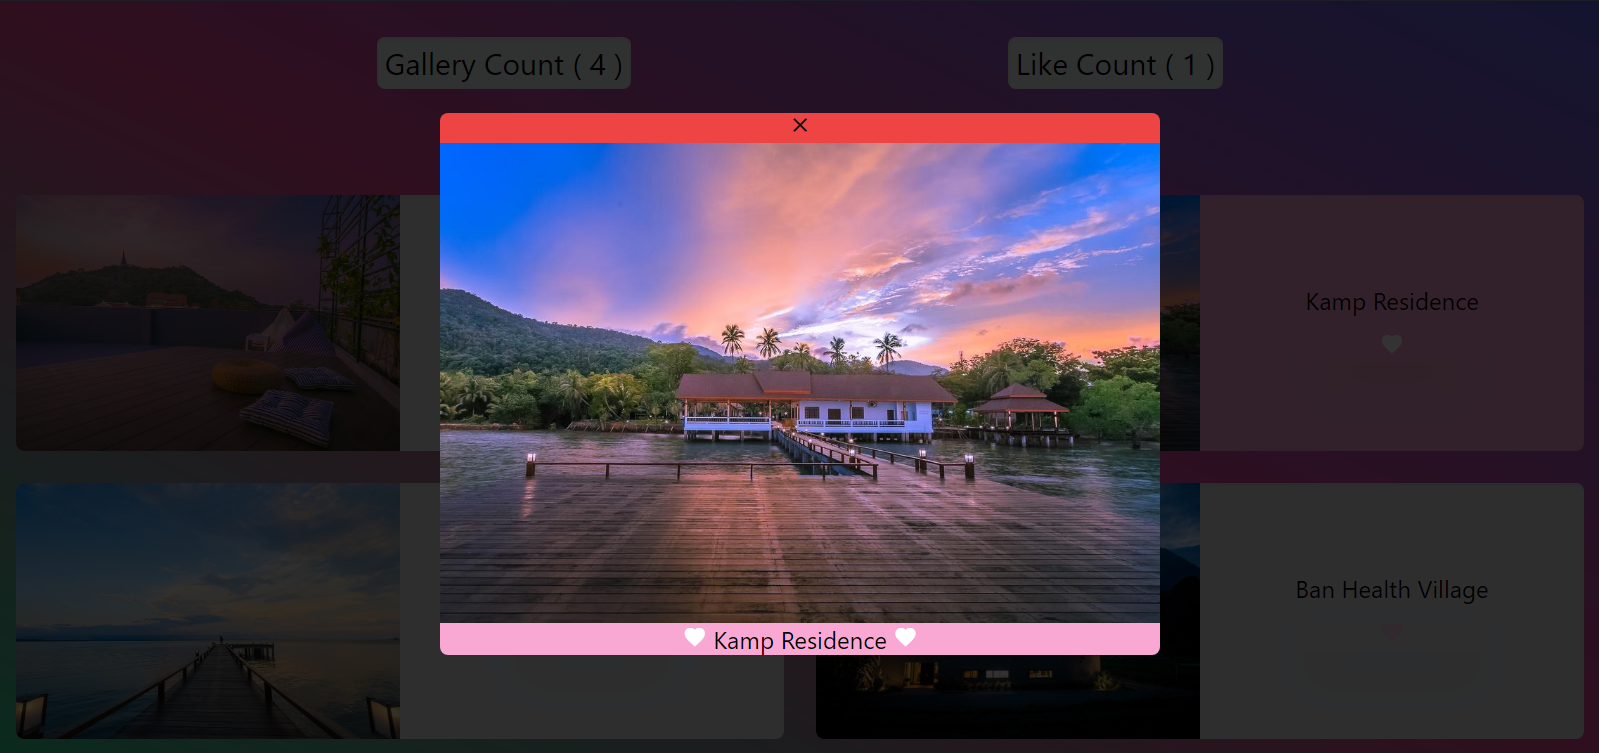
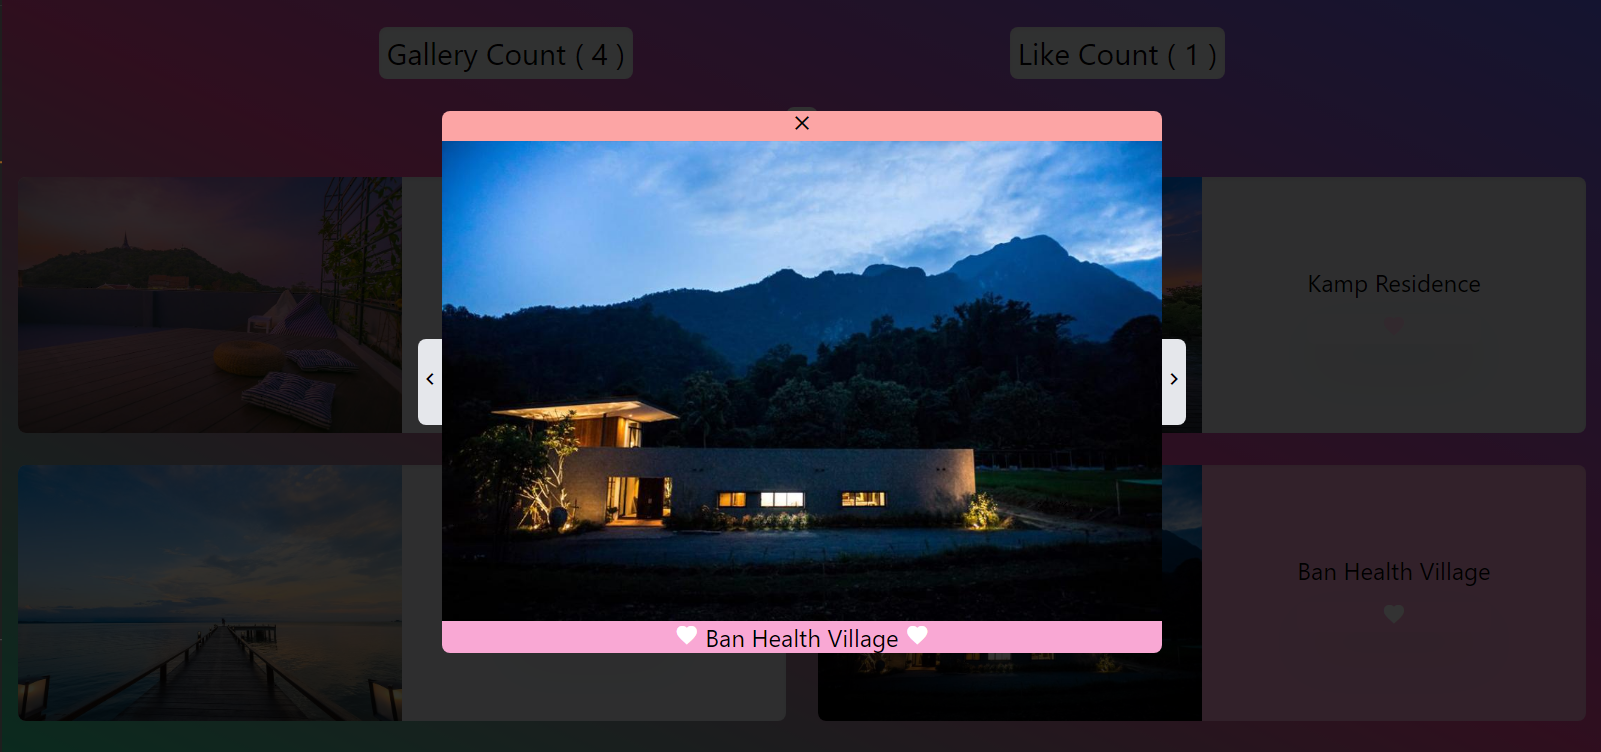
[Add] next and previous buttons

diff --git a/62130500108_Groupwork_4/main.js b/62130500108_Groupwork_4/main.js
@@ -21,6 +21,7 @@ const app = {
                 src: '',
                 text: '',
                 like: false,
+                tempindex: null
             }
         }
     },
@@ -44,9 +45,28 @@ const app = {
             this.viewpic.text = this.pics[index].text
             this.viewpic.like = this.pics[index].like
             this.viewpic.showviewpic = !this.viewpic.showviewpic
+            this.viewpic.tempindex = index
         },
         toggleviewoff() {
             this.viewpic.showviewpic = !this.viewpic.showviewpic
+        },
+        nextview() {
+            if(this.viewpic.tempindex>=this.pics.length){
+                this.viewpic.tempindex = 0
+            }
+            const index = this.viewpic.tempindex++
+            this.viewpic.src = this.pics[index].src
+            this.viewpic.text = this.pics[index].text
+            this.viewpic.like = this.pics[index].like 
+        },
+        beforeview() {
+            if(this.viewpic.tempindex<=0){
+                this.viewpic.tempindex = this.pics.length-1
+            }
+            const index = this.viewpic.tempindex--
+            this.viewpic.src = this.pics[index].src
+            this.viewpic.text = this.pics[index].text
+            this.viewpic.like = this.pics[index].like 
         }
     },
     computed: {

diff --git a/62130500108_Groupwork_4/index.html b/62130500108_Groupwork_4/index.html
@@ -35,6 +35,11 @@
         <div class="flex justify-center">
             <div v-show="viewpic.showviewpic"
                 class="flex justify-center text-center bg-black bg-opacity-80 py-28 px-80 fixed ">
+                <div v-on:click="beforeview()" class="self-center bg-gray-200 bg-gray-200 py-7 cursor-pointer rounded-l-lg  transition duration-500 hover:bg-gray-500">
+                    <span class="material-icons">
+                        navigate_before
+                        </span> 
+                </div>
                 <div class="w-3/4 ">
                     <div v-on:click="toggleviewoff()"
                         class="cursor-pointer bg-red-500 rounded-t-lg hover:bg-red-300 transition duration-500">
@@ -51,6 +56,11 @@
                             <a v-show="viewpic.like" class="text-white"><i class="material-icons">favorite</i></a>
                         </p>
                     </div>
+                </div>
+                <div v-on:click="nextview()" class="self-center bg-gray-200 bg-gray-200 py-7 cursor-pointer rounded-r-lg transition duration-500 hover:bg-gray-500">
+                    <span class="material-icons">
+                        navigate_next
+                        </span>
                 </div>
             </div>
         </div>
